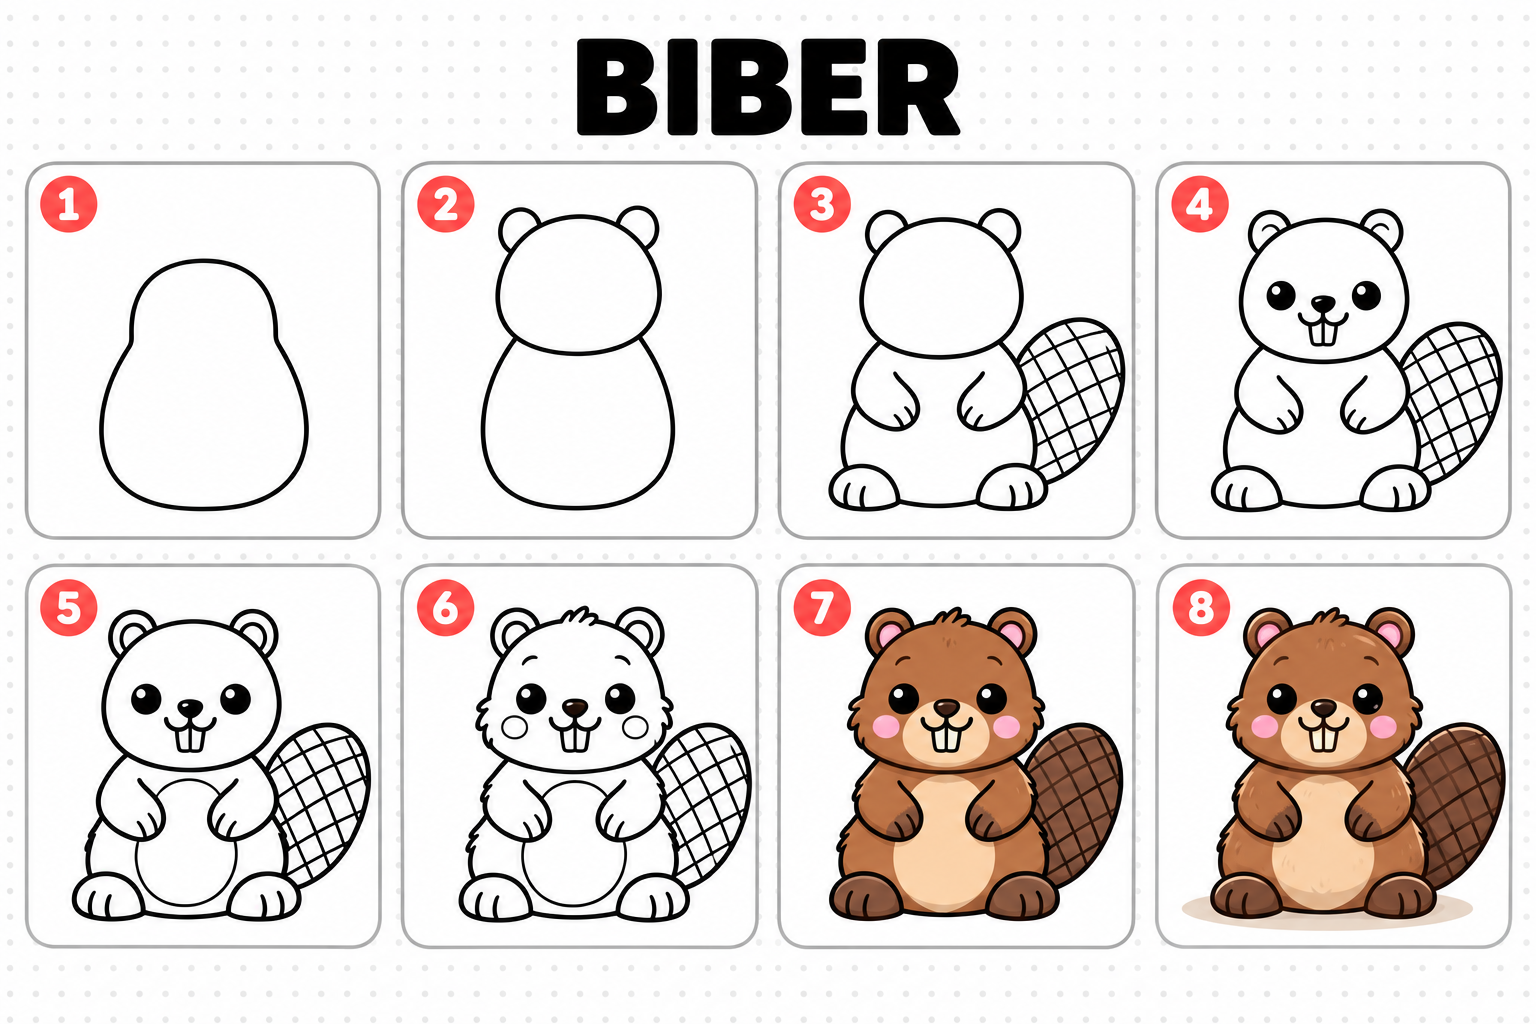
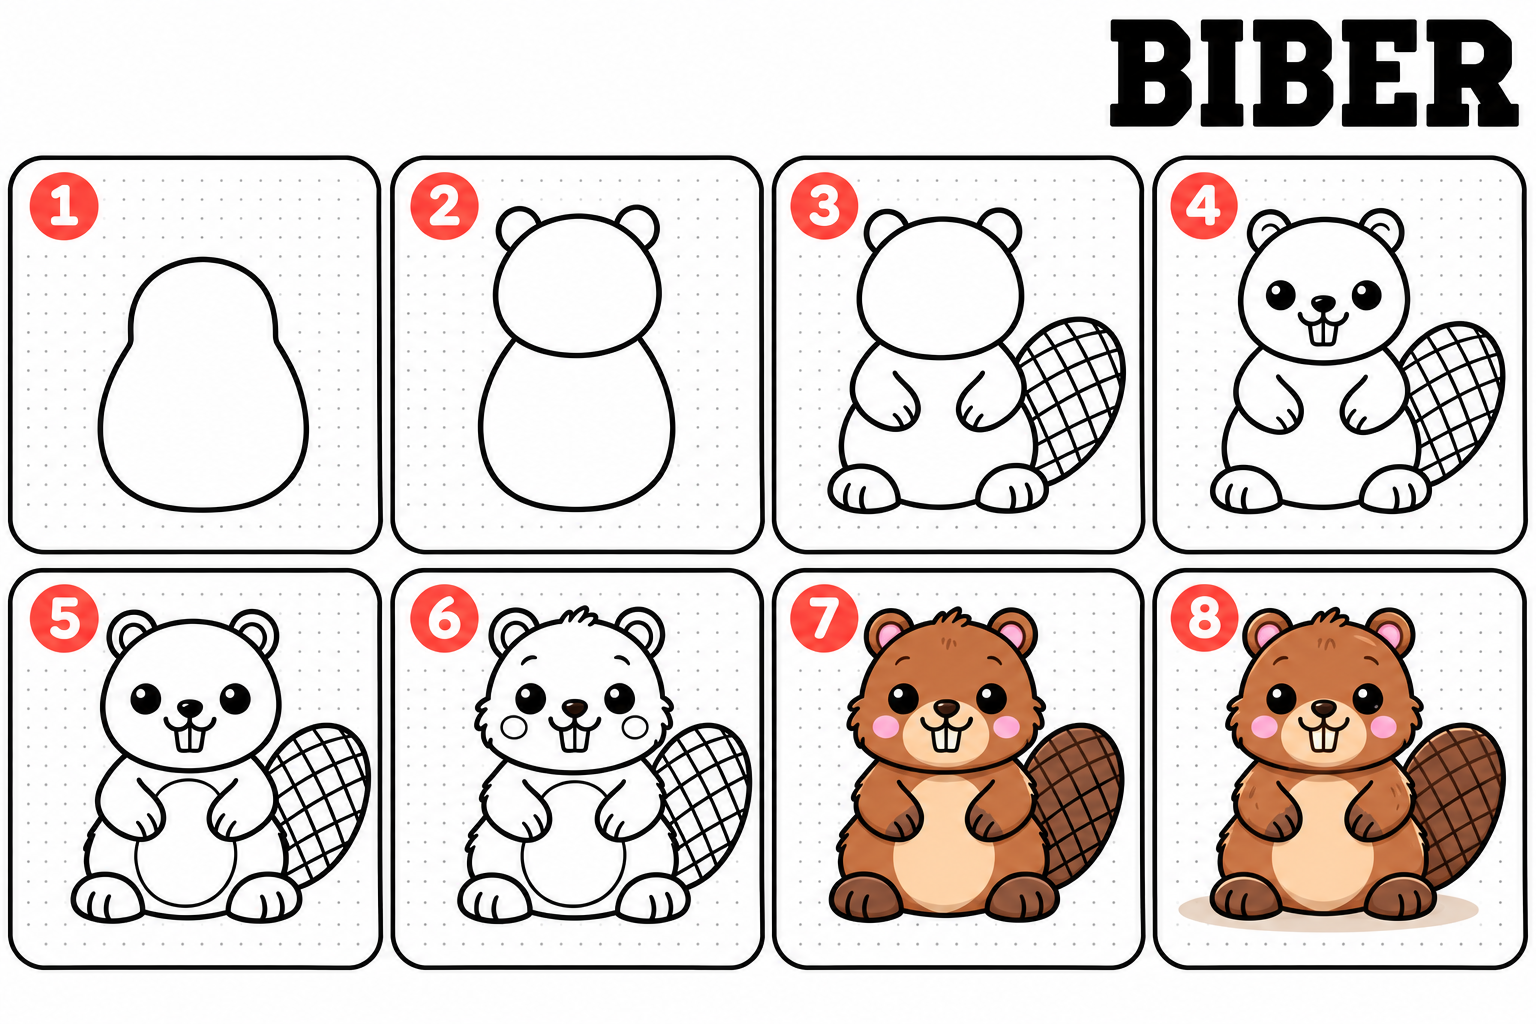
Neue Zeichenanleitungen einbinden und Bildsammlung aktualisieren

diff --git a/index.html b/index.html
@@ -130,7 +130,7 @@ input[type=text],input[type=url],select{width:100%;padding:12px;border:1px solid
       <div class="field">
         <label for="imageCategory">Kategorie</label>
         <select id="imageCategory"></select>
-        <small>Tiere, Pflanzen, Dinge, Comics, Kawaii, Gebäude oder Fantasy.</small>
+        <small>Tiere, Pflanzen, Dinge, Comics, Kawaii, Gebäude, Fantasy oder Weihnachten.</small>
       </div>
     </div>
     <div class="actions">
@@ -163,7 +163,7 @@ input[type=text],input[type=url],select{width:100%;padding:12px;border:1px solid
 <script>
 // Sauberer Zustand der Seite für den Export, bevor etwas dynamisch eingefüllt wird.
 const TEMPLATE_HTML = document.documentElement.outerHTML;
-const CATEGORIES = ["Tiere","Pflanzen","Dinge","Comics","Kawaii","Gebäude","Fantasy"];
+const CATEGORIES = ["Tiere","Pflanzen","Dinge","Comics","Kawaii","Gebäude","Fantasy","Weihnachten"];
 // Neue Status-Version: Alle mitgelieferten Bilder starten einmalig wieder aktiv.
 const STORAGE_KEY = "zufallsbild_status_v3";
 // Gelöschte Bilder (IDs) und selbst hinzugefügte Bilder werden im Browser gemerkt.
@@ -175,22 +175,19 @@ const INITIAL_IMAGES = [
   {id:"biber", name:"Biber", category:"Tiere", image:"Bilder/Biber.png"},
   {id:"kaktus-2", name:"Kaktus 2", category:"Pflanzen", image:"Bilder/Kaktus_2.jpg"},
   {id:"cafe", name:"Café", category:["Gebäude","Dinge"], image:"Bilder/Café.png"},
+  {id:"dackel", name:"Dackel", category:"Tiere", image:"Bilder/Dackel.png"},
   {id:"delfin", name:"Delfin", category:"Tiere", image:"Bilder/Delfin.jpg"},
   {id:"elefant", name:"Elefant", category:"Tiere", image:"Bilder/Elefant.png"},
   {id:"eis-am-stiel", name:"Eis am Stiel", category:["Dinge","Kawaii"], image:"Bilder/Eis_am_Stiel.png"},
   {id:"faultier", name:"Faultier", category:"Tiere", image:"Bilder/Faultier.png"},
-  {id:"flamingo-1", name:"Flamingo 1", category:"Tiere", image:"Bilder/Flamingo_1.png"},
   {id:"flamingo-2", name:"Flamingo 2", category:"Tiere", image:"Bilder/Flamingo_2.jpg"},
-  {id:"fliegenpilz-1", name:"Fliegenpilz 1", category:["Pflanzen","Kawaii"], image:"Bilder/Fliegenpilz_1.png"},
   {id:"fliegenpilz-2", name:"Fliegenpilz 2", category:["Pflanzen","Fantasy"], image:"Bilder/Fliegenpilz_2.jpg"},
   {id:"fussballspieler", name:"Fussballspieler", category:"Comics", image:"Bilder/Fussballspieler.jpg"},
   {id:"giraffe", name:"Giraffe", category:"Tiere", image:"Bilder/Giraffe.png"},
   {id:"gitarre", name:"Gitarre", category:"Dinge", image:"Bilder/Gitarre.png"},
-  {id:"gitarre-2", name:"Gitarre 2", category:"Dinge", image:"Bilder/Gitarre_2.jpg"},
   {id:"handy", name:"Handy", category:"Dinge", image:"Bilder/Handy.jpg"},
   {id:"haus", name:"Haus", category:"Gebäude", image:"Bilder/Haus.jpg"},
   {id:"kaffeetasse", name:"Kaffeetasse", category:"Dinge", image:"Bilder/Kaffeetasse.jpg"},
-  {id:"kaktus", name:"Kaktus", category:["Pflanzen","Kawaii"], image:"Bilder/Kaktus.png"},
   {id:"katze", name:"Katze", category:"Tiere", image:"Bilder/Katze.png"},
   {id:"maedchen", name:"Mädchen", category:"Comics", image:"Bilder/Mädchen.png"},
   {id:"muffin", name:"Muffin", category:["Dinge","Kawaii"], image:"Bilder/Muffin.png"},
@@ -202,6 +199,16 @@ const INITIAL_IMAGES = [
   {id:"skateboarder", name:"Skateboarder", category:"Comics", image:"Bilder/Skateboarder.png"},
   {id:"velofahrerin", name:"Velofahrerin", category:"Comics", image:"Bilder/Velofahrerin.png"},
   {id:"wecker", name:"Wecker", category:"Dinge", image:"Bilder/Wecker.jpg"},
+  {id:"wichtel", name:"Wichtel", category:"Weihnachten", image:"Bilder/Wichtel.png"},
+  {id:"rentier", name:"Rentier", category:"Weihnachten", image:"Bilder/Rentier.png"},
+  {id:"schneemann", name:"Schneemann", category:"Weihnachten", image:"Bilder/Schneemann.png"},
+  {id:"lebkuchenmann", name:"Lebkuchenmann", category:"Weihnachten", image:"Bilder/Lebkuchenmann.png"},
+  {id:"weihnachtsbaum", name:"Weihnachtsbaum", category:"Weihnachten", image:"Bilder/Weihnachtsbaum.png"},
+  {id:"schloss", name:"Schloss", category:["Gebäude","Fantasy","Kawaii"], image:"Bilder/Schloss.png"},
+  {id:"leuchtturm", name:"Leuchtturm", category:["Gebäude","Kawaii"], image:"Bilder/Leuchtturm.png"},
+  {id:"iglu", name:"Iglu", category:["Gebäude","Kawaii"], image:"Bilder/Iglu.png"},
+  {id:"babydrache", name:"Babydrache", category:["Fantasy","Kawaii"], image:"Bilder/Babydrache.png"},
+  {id:"monsterchen", name:"Monsterchen", category:["Fantasy","Kawaii"], image:"Bilder/Monsterchen.png"},
   // ============================================================
   // HIER KÖNNEN VORBEREITETE BILDER DIREKT IN DEN HTML-CODE.
   // Format:
